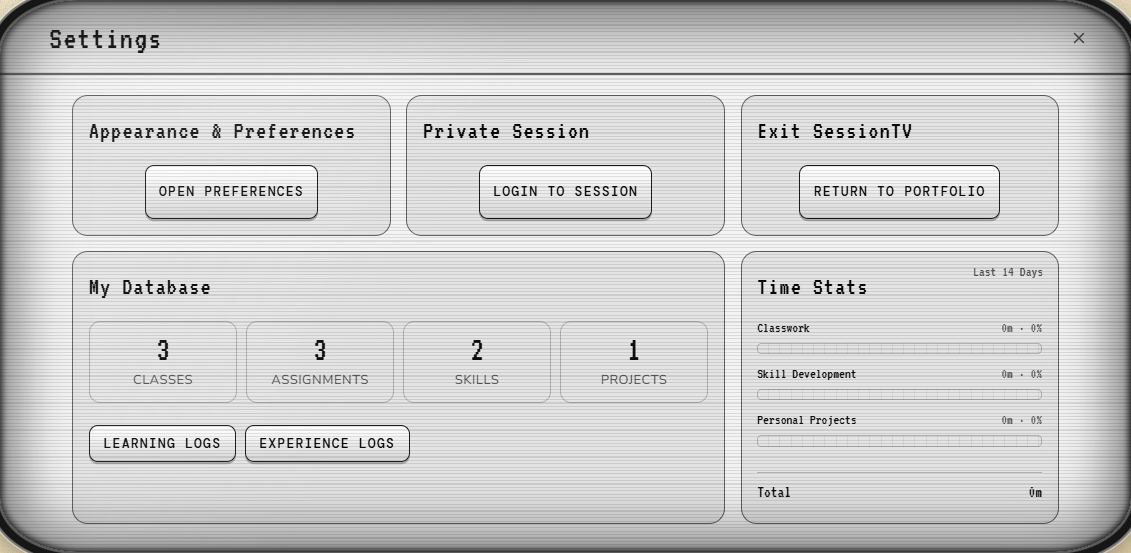
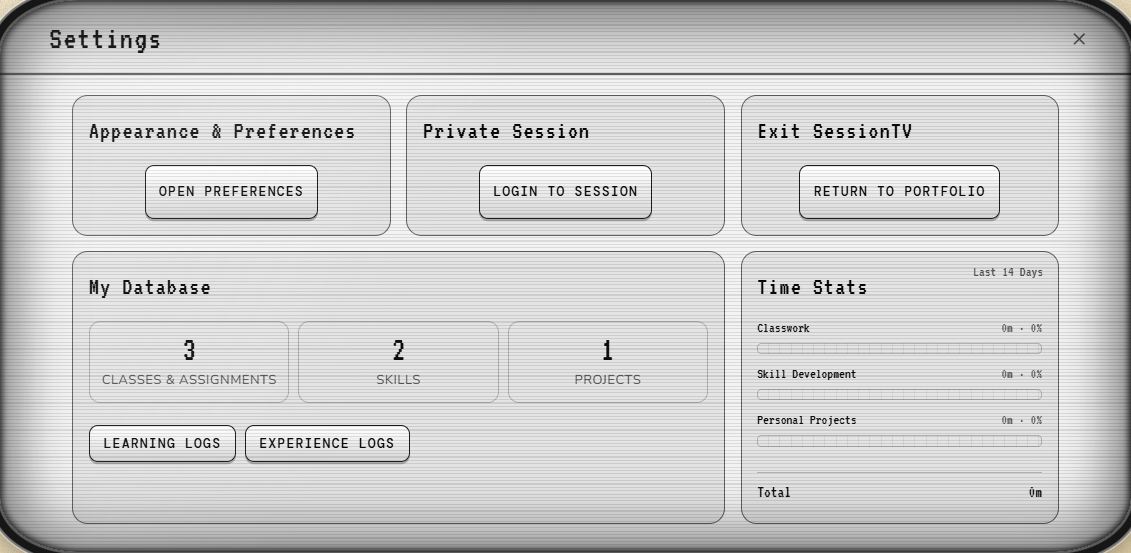
Unify class assignments and settings header navigation

diff --git a/session-tv/public/js/artifact/06.js b/session-tv/public/js/artifact/06.js
@@ -1,7 +1,18 @@
 /* ---------- Settings: Session Database ---------- */
 TV.dbView=null;
+function settingsHeader(title, add, onAdd){
+  const header=$('tv-settings').querySelector('.sheet-head');
+  header.querySelector('h2').innerHTML='Settings'+(title?' <span class="settings-chevron" aria-hidden="true">&gt;</span> <span>'+esc(title)+'</span>':'');
+  header.querySelector('#db-add')?.remove();
+  const back=$('set-x');
+  back.innerHTML=title?'←':'×';
+  back.setAttribute('aria-label',title?'Back to settings':'Close settings');
+  back.onclick=()=>{if(TV.dbView){TV.dbView=null;renderSettings()}else closeSheets()};
+  if(add){const button=document.createElement('button');button.type='button';button.id='db-add';button.className='btn';button.textContent='+ '+add;button.onclick=onAdd;header.insertBefore(button,back)}
+}
 function renderSettings(){
   if(TV.dbView)return renderDbView(TV.dbView);
+  settingsHeader();
   const live=tasks.filter(t=>t.status!=='archived'),cls=live.filter(t=>typeOf(t)==='class'),sk=live.filter(t=>typeOf(t)==='skill'),pj=live.filter(t=>typeOf(t)==='project');
   const courses=[...new Set([...cls.map(t=>t.course).filter(Boolean),...Object.keys(recall('sb.classes',{}))])],projects=[...new Set([...pj.map(t=>t.course||'Other'),...Object.values(PROJ.data).map(p=>p.name).filter(Boolean)])];
   const exp=pj.filter(t=>t.status==='done').length;
@@ -11,7 +22,7 @@ function renderSettings(){
     <div class="set-card"><h3>Private Session</h3><div class="row"><button class="btn" id="local-open">${SessionWorkspace.mode==='private'?'Session preferences':'Login to Session'}</button></div></div>
     <div class="set-card"><h3>Exit SessionTV</h3><div class="row"><a class="btn" id="session-exit" href="https://tannermayfield.dev/#projects">Return to portfolio</a></div></div>
     <div class="set-card db-card"><h3>My Database</h3>
-      <div class="db-stats">${stat(courses.length,'Classes','classes')}${stat(cls.length,'Assignments','assignments')}${stat(sk.length,'Skills','skills')}${stat(projects.length,'Projects','projects')}</div>
+      <div class="db-stats">${stat(courses.length,'Classes & assignments','classes')}${stat(sk.length,'Skills','skills')}${stat(projects.length,'Projects','projects')}</div>
       <div class="db-btns"><button class="btn" data-db="learning">Learning Logs</button><button class="btn" data-db="experience">Experience Logs</button></div></div>
     ${setTimeCard()}
   </div>`;
@@ -37,11 +48,11 @@ function renderDbView(v){
   const row=(t,meta,done)=>`<li><button type="button" class="db-row${done?' done':''}" data-open="${esc(t.id)}"><span class="db-t">${esc(t.title)}</span><span class="db-m">${meta}</span></button></li>`;
   const group=(h,sub,items)=>`<section class="db-grp"><h4>${esc(h)}${sub?` <small>${esc(sub)}</small>`:''}</h4><ul>${items||'<li class="db-empty">Nothing here yet.</li>'}</ul></section>`;
   let title='',body='',add='';
-  if(v==='classes'||v==='assignments'){title=v==='classes'?'Classes':'Assignments';add=v==='classes'?'Add class':'Add assignment';
+  if(v==='classes'||v==='assignments'){title='Classes & assignments';add='Add class';
     const cls=live.filter(t=>typeOf(t)==='class'),courses=[...new Set([...cls.map(t=>t.course||'Other'),...Object.keys(recall('sb.classes',{}))])].sort();
     body=courses.map(c=>{const l=cls.filter(t=>(t.course||'Other')===c).sort((a,b)=>(a.status==='done')-(b.status==='done')||String(a.due||'9').localeCompare(String(b.due||'9')));
       const open=l.filter(t=>t.status!=='done').length;
-      return group(c+(GD_COURSE_NAMES[c]?' · '+GD_COURSE_NAMES[c]:''),`${open} open · ${l.length-open} done`,l.map(t=>row(t,t.status==='done'?`Done ${d(t.doneAt)}`:(t.due?esc(fmtDue(t)):'No due date'),t.status==='done')).join(''))}).join('');}
+      return `<section class="db-grp class-section"><div class="class-section-head"><h4>${esc(c+(GD_COURSE_NAMES[c]?' · '+GD_COURSE_NAMES[c]:''))}<small>${open} open · ${l.length-open} done</small></h4><button type="button" class="btn" data-add-assignment="${esc(c)}">+ Add assignment</button></div><ul>${l.map(t=>row(t,t.status==='done'?`Done ${d(t.doneAt)}`:(t.due?esc(fmtDue(t)):'No due date'),t.status==='done')).join('')||'<li class="db-empty">No assignments yet.</li>'}</ul></section>`}).join('');}
   else if(v==='skills'){title='Skills';add='Add skill';
     const sk=live.filter(t=>typeOf(t)==='skill');
     body=subsOf('skill').map(c=>{const l=sk.filter(t=>catOf(t)===c).sort(byOrder);return group(c,`${l.length} skill${l.length===1?'':'s'}`,l.map(t=>row(t,`${LVL_TAG(skillLevel(t))} · ${esc(agoLabel(t.lastPracticed))}`)).join(''))}).join('');}
@@ -52,8 +63,8 @@ function renderDbView(v){
   else if(v==='experience'){title='Experience Logs';
     const l=live.filter(t=>typeOf(t)==='project'&&t.status==='done').sort((a,b)=>String(b.doneAt||'').localeCompare(String(a.doneAt||'')));
     body=`<p class="db-note">Proof of your skills: every project task you finish lands here, newest first.</p>`+(l.length?group('Finished project work',`${l.length} entr${l.length===1?'y':'ies'}`,l.map(t=>row(t,`${esc(t.course||'Project')} · ${t.doneAt?'Done '+d(t.doneAt):'Done'}${t.goal?' · '+esc(t.goal):''}`,true)).join('')):`<p class="db-empty">Nothing yet. Finish a project task and it shows up here as proof of the work.</p>`);}
-  $('set-body').innerHTML=`<div class="db-view"><div class="db-head"><button type="button" class="btn ghost" id="db-back">‹ Back</button><h3>${title}</h3>${add?`<button type="button" class="btn" id="db-add">+ <span class="db-al">${add}</span><span class="db-as">Add</span></button>`:''}</div><div class="db-list">${body}</div></div>`;
-  $('db-back').onclick=()=>{TV.dbView=null;renderSettings()};
-  if($('db-add'))$('db-add').onclick=()=>SessionAddForms.open(v==='classes'?'class':v==='assignments'?'assignment':v==='skills'?'skill':'project');
+  settingsHeader(title,add,()=>SessionAddForms.open(v==='classes'||v==='assignments'?'class':v==='skills'?'skill':'project'));
+  $('set-body').innerHTML=`<div class="db-view"><div class="db-list">${body||'<p class="db-empty">Nothing here yet.</p>'}</div></div>`;
+  $('set-body').querySelectorAll('[data-add-assignment]').forEach(button=>button.onclick=()=>SessionAddForms.open('assignment',button.dataset.addAssignment));
   $('set-body').querySelectorAll('[data-open]').forEach(b=>b.onclick=()=>openTask(b.dataset.open));
 }

diff --git a/session-tv/public/js/preview.js b/session-tv/public/js/preview.js
@@ -2,7 +2,7 @@
 (() => {
  if(!SessionWorkspace.readOnly)return;
  document.body.dataset.readonly='true';
- const mutations='#db-add,#set-add,#local-add,#local-playlists,#local-end,#local-export,#legacy-export,#demo-reset,.local-import,#done-btn,#undo-done,#wrapup-btn,#wp-end,#td-edit,#td-sub,#pp-create,#pp-start,#pp-go,#pp-next,#pp-end-sp,#pp-new,#pp-bl-new,#project-codex,#ws-run,#ws-send,#ws-reset,#timer,#tv-timer,#clock,#wc-form,[data-chk],[data-trash],[data-lvl],[data-lvlopen],[data-spdone],[data-sprm],[data-who],[data-all],[data-pcyc],[data-pact],[data-bladd],[data-blrm],[data-psk],[data-ppd-use],[data-usecode],.pp-ptbtn,.pp-x,.pp-n';
+ const mutations='[data-add-assignment],#db-add,#set-add,#local-add,#local-playlists,#local-end,#local-export,#legacy-export,#demo-reset,.local-import,#done-btn,#undo-done,#wrapup-btn,#wp-end,#td-edit,#td-sub,#pp-create,#pp-start,#pp-go,#pp-next,#pp-end-sp,#pp-new,#pp-bl-new,#project-codex,#ws-run,#ws-send,#ws-reset,#timer,#tv-timer,#clock,#wc-form,[data-chk],[data-trash],[data-lvl],[data-lvlopen],[data-spdone],[data-sprm],[data-who],[data-all],[data-pcyc],[data-pact],[data-bladd],[data-blrm],[data-psk],[data-ppd-use],[data-usecode],.pp-ptbtn,.pp-x,.pp-n';
  const style=document.createElement('style');style.textContent=mutations.split(',').filter(s=>!['[data-chk]','[data-lvlopen]','#tv-timer'].includes(s)).map(s=>'body[data-readonly="true"] '+s).join(',')+'{display:none!important} body[data-readonly="true"] [contenteditable="true"]{pointer-events:none}';document.head.appendChild(style);
  function protect(){
   document.querySelectorAll('input,textarea,select').forEach(el=>{if(el.closest('#workspace-auth'))return;if(!el.disabled)el.disabled=true;if('readOnly' in el)el.readOnly=true});

diff --git a/session-tv/public/local.css b/session-tv/public/local.css
@@ -65,3 +65,5 @@ body.tv-home-active #view-log{visibility:hidden;pointer-events:none}#tv-home .gd
  body.tv #view-log{zoom:var(--tv-scale,1)}
  body.tv .tv-panel{zoom:.74}
 }
+
+#tv-settings .sheet-head h2{display:flex;align-items:center;gap:12px;flex:1;min-width:0}#tv-settings .sheet-head #db-add{margin-left:auto;white-space:nowrap}#tv-settings .sheet-head .sheet-x{position:static;flex:none;margin-left:12px}.settings-chevron{opacity:.55}#tv-settings .db-stats{grid-template-columns:repeat(3,minmax(0,1fr))}.class-section{padding:18px;border:1px solid var(--line);border-radius:12px;background:var(--modal);box-shadow:inset 0 0 0 999px rgba(128,128,128,.08)}.class-section-head{display:flex;align-items:center;justify-content:space-between;gap:16px;margin-bottom:12px}.class-section-head h4{margin:0}.class-section-head small{display:block;margin-top:6px}.class-section-head .btn{flex:none}.db-view{height:100%;min-height:0}.class-section ul{margin:0;padding:0;list-style:none}@media(max-width:700px){#tv-settings .sheet-head h2{font-size:18px;gap:5px;flex-wrap:wrap}#tv-settings .sheet-head #db-add{font-size:11px;padding:7px}.class-section-head{flex-wrap:wrap}}

diff --git a/session-tv/public/js/add-forms.js b/session-tv/public/js/add-forms.js
@@ -55,12 +55,13 @@
    finally { button.disabled=false; }
   };
  }
- function open(kind) {
+ function open(kind, course) {
   if(SessionWorkspace.mode==='demo'){toast('Sign in to add records.');return;}
   closeDrawers(); const dialog=dialogs[kind];dialog.querySelector('[role=status]').textContent='';
   if(kind==='assignment') {
    const names=[...new Set([...Object.keys(recall('sb.classes',{})),...tasks.filter(task=>typeOf(task)==='class').map(task=>task.course).filter(Boolean)])].sort();
    dialog.querySelector('[name=course]').replaceChildren(new Option('Choose a class',''),...names.map(name=>new Option(name,name)));
+   if(course)dialog.querySelector('[name=course]').value=course;
    if(!names.length)dialog.querySelector('[role=status]').textContent='Add a class in My Database → Classes first.';
   }
   dialog.showModal();
